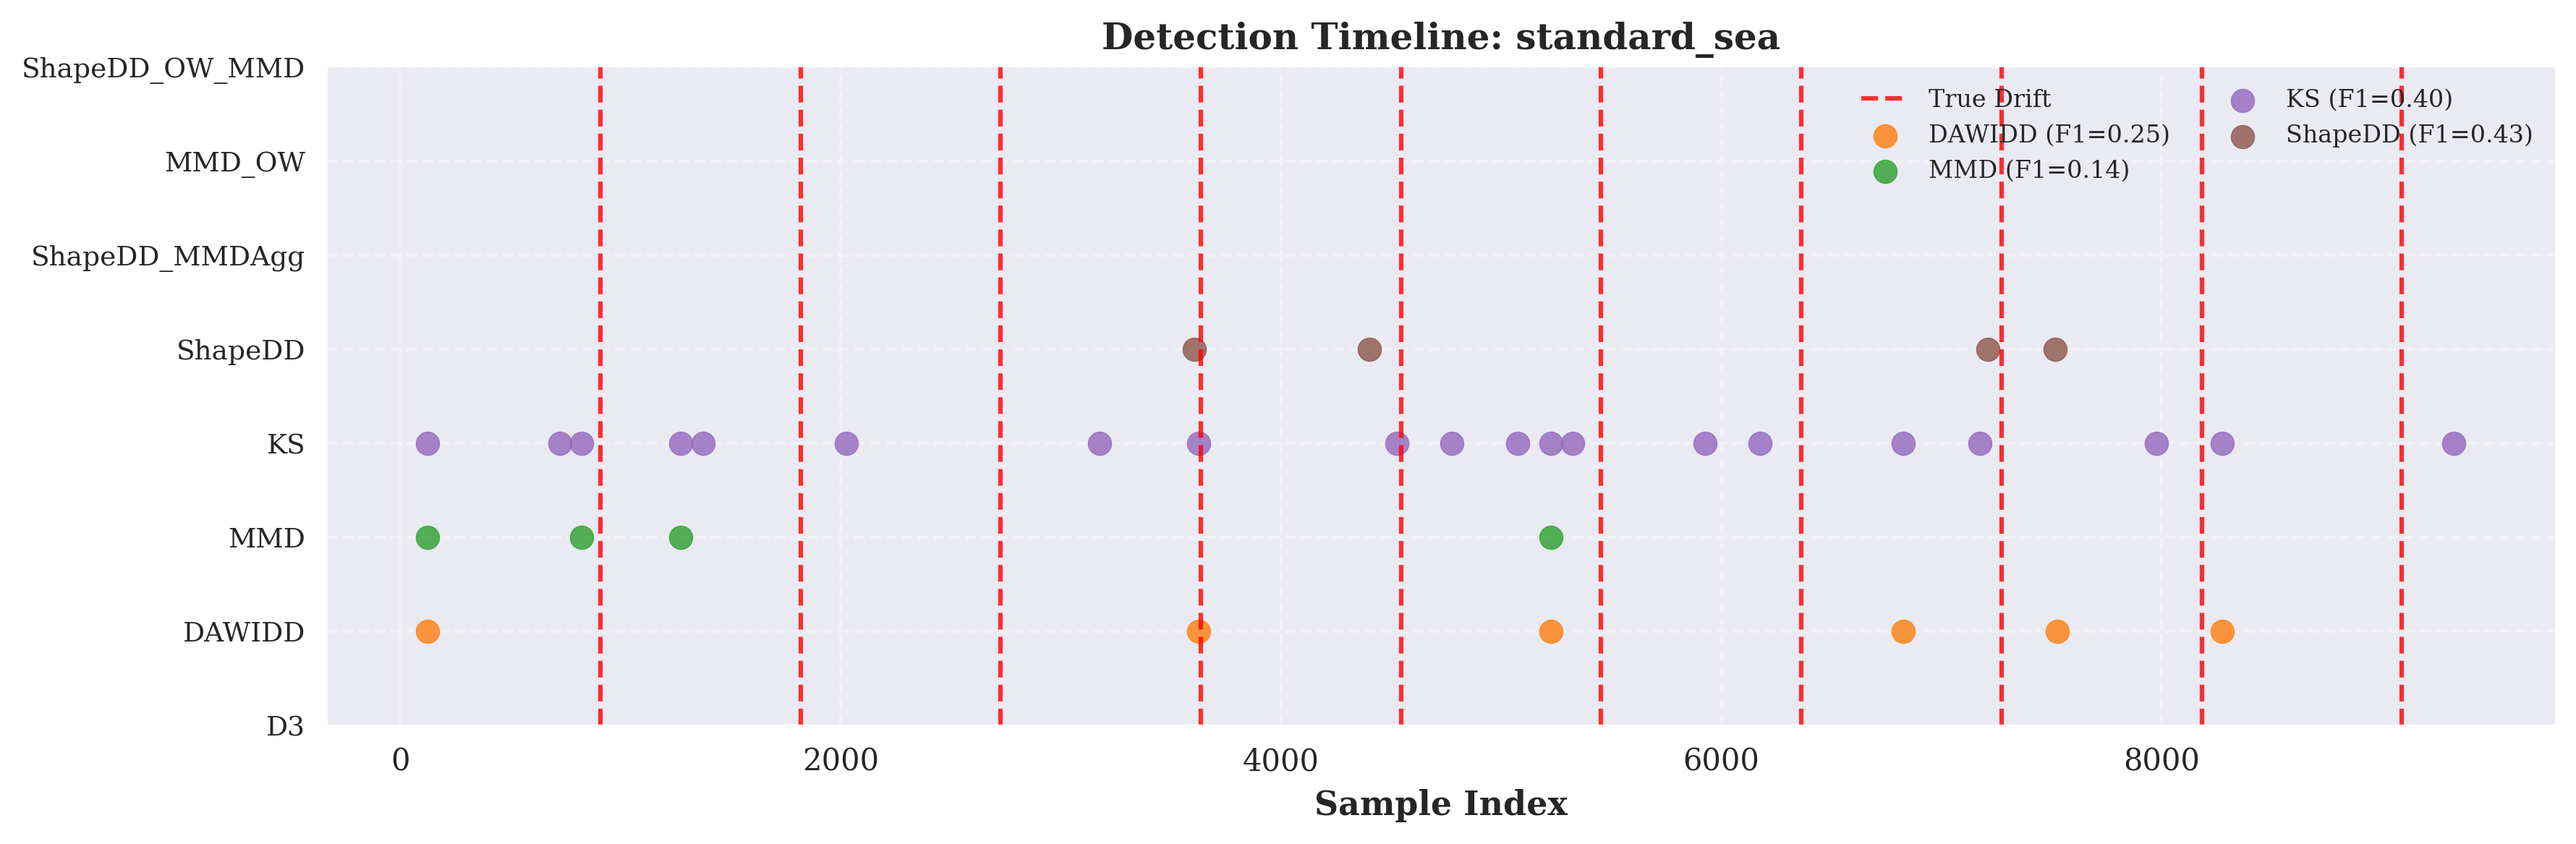
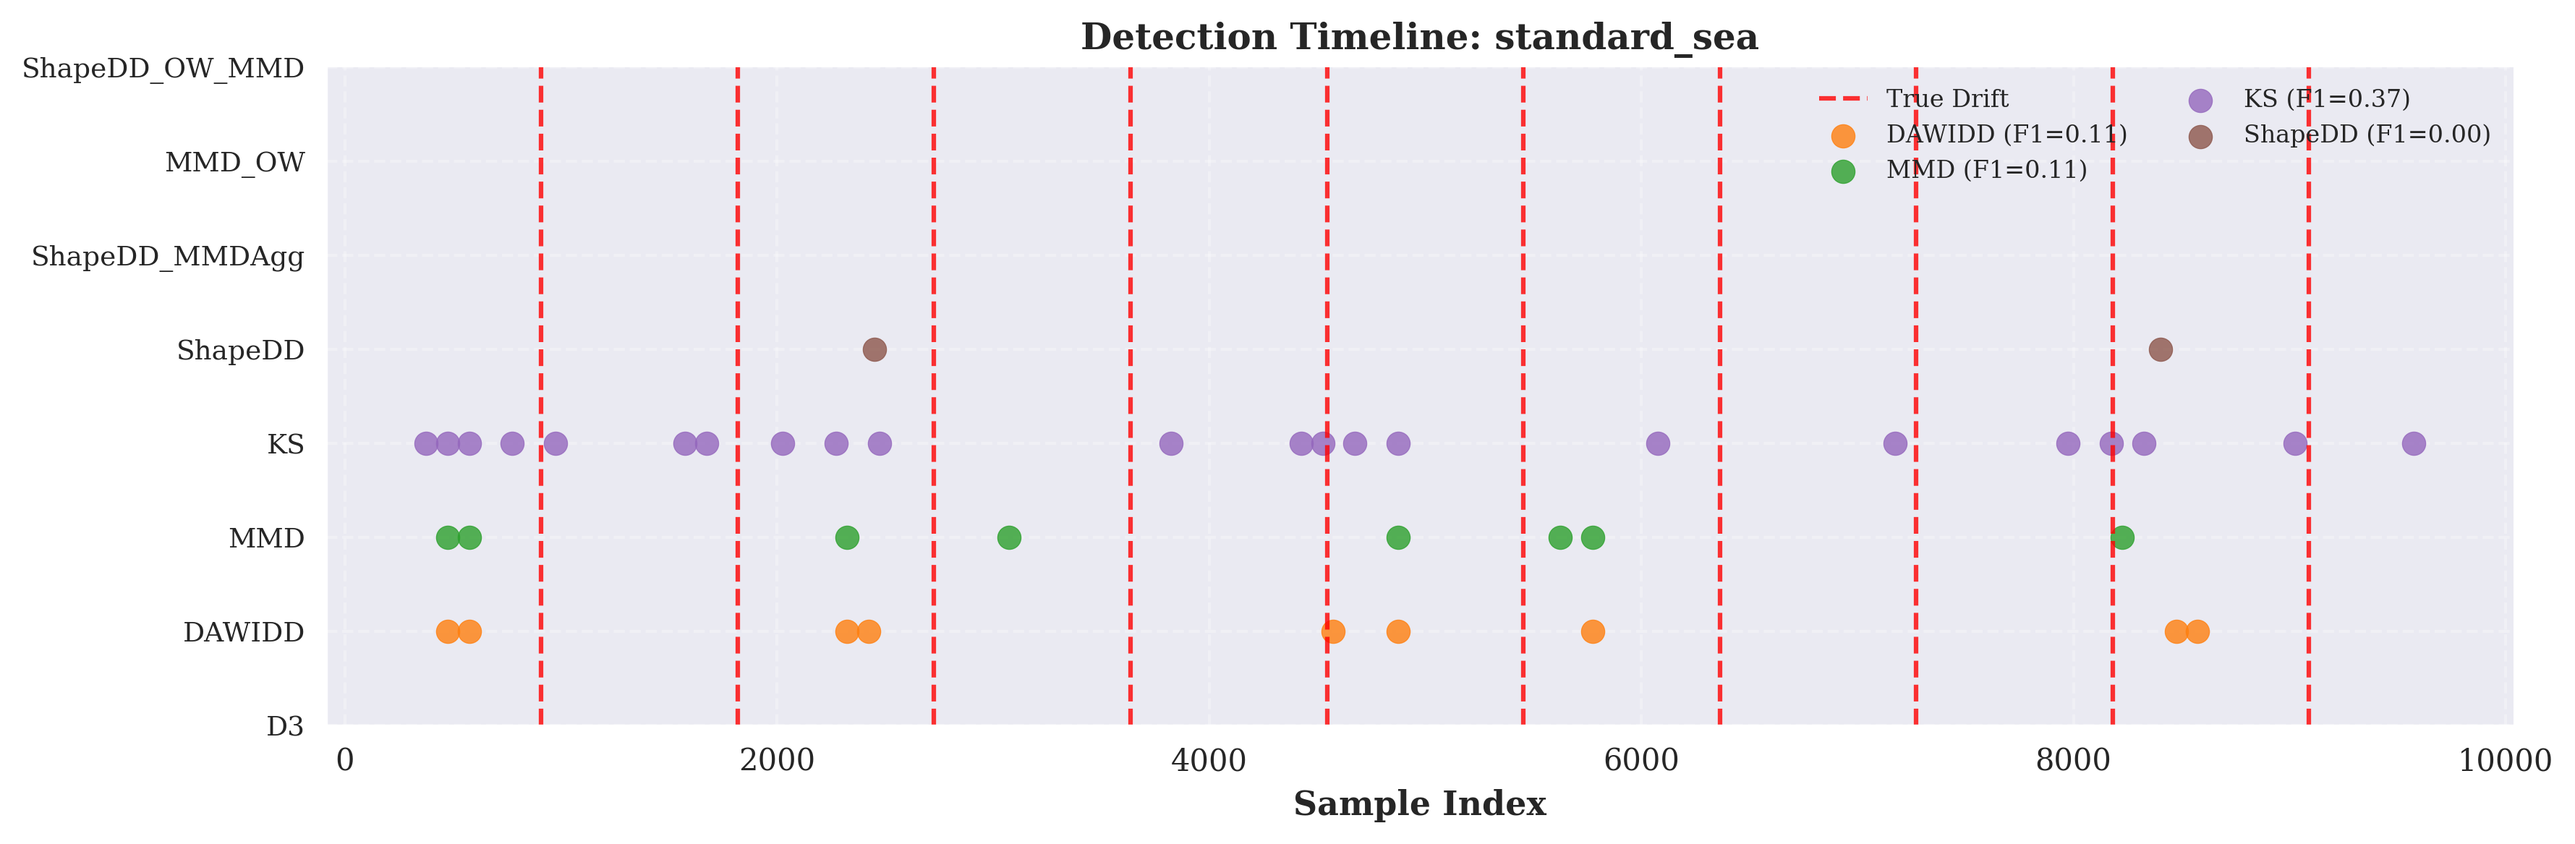
Refine report

diff --git a/experiments/drift_detection_benchmark/publication_figures/table_II_f1_by_dataset.tex b/experiments/drift_detection_benchmark/publication_figures/table_II_f1_by_dataset.tex
@@ -6,14 +6,14 @@
 Dataset & Rank & electricity_sorted & hyperplane & led_abrupt & rbf_slow & rbfblips & sea_gradual & stagger & standard_sea & Mean \\
 Method &  &  &  &  &  &  &  &  &  &  \\
 \midrule
-ShapeDD & 1 & \textbf{0.244} & 0.250 & 0.286 & \textbf{0.444} & 0.455 & 0.444 & 0.909 & \textbf{0.429} & \textbf{0.433} \\
-DAWIDD & 2 & 0.143 & 0.286 & 0.222 & 0.421 & \textbf{0.476} & \textbf{0.500} & 0.690 & 0.250 & 0.374 \\
-MMD & 3 & 0.156 & \textbf{0.400} & \textbf{0.353} & 0.300 & 0.455 & 0.375 & 0.667 & 0.143 & 0.356 \\
-KS & 4 & 0.096 & 0.327 & 0.000 & 0.295 & 0.290 & 0.389 & 0.417 & 0.400 & 0.277 \\
-ShapeDD_OW_MMD & 5 & 0.182 & 0.000 & 0.182 & 0.000 & 0.000 & 0.000 & \textbf{1.000} & 0.000 & 0.170 \\
-MMD_OW & 6 & 0.240 & 0.000 & 0.000 & 0.000 & 0.000 & 0.000 & \textbf{1.000} & 0.000 & 0.155 \\
-ShapeDD_MMDAgg & 7 & 0.000 & 0.000 & 0.000 & 0.000 & 0.182 & 0.000 & \textbf{1.000} & 0.000 & 0.148 \\
-D3 & 8 & 0.118 & 0.000 & 0.000 & 0.000 & 0.000 & 0.000 & \textbf{1.000} & 0.000 & 0.140 \\
+ShapeDD & 1 & 0.238 & \textbf{0.375} & \textbf{0.375} & 0.111 & \textbf{0.348} & 0.300 & 0.690 & 0.000 & \textbf{0.305} \\
+KS & 2 & 0.096 & 0.321 & 0.286 & 0.327 & 0.328 & 0.279 & 0.377 & \textbf{0.375} & 0.299 \\
+MMD & 3 & 0.159 & 0.000 & 0.250 & \textbf{0.381} & 0.300 & \textbf{0.387} & 0.645 & 0.111 & 0.279 \\
+DAWIDD & 4 & 0.141 & 0.000 & 0.235 & 0.261 & 0.273 & \textbf{0.387} & 0.556 & 0.105 & 0.245 \\
+ShapeDD_MMDAgg & 5 & 0.000 & 0.000 & 0.000 & 0.000 & 0.333 & 0.000 & \textbf{1.000} & 0.000 & 0.167 \\
+MMD_OW & 6 & \textbf{0.240} & 0.000 & 0.000 & 0.000 & 0.000 & 0.000 & \textbf{1.000} & 0.000 & 0.155 \\
+ShapeDD_OW_MMD & 7 & 0.182 & 0.000 & 0.000 & 0.000 & 0.000 & 0.000 & \textbf{1.000} & 0.000 & 0.148 \\
+D3 & 8 & 0.000 & 0.000 & 0.000 & 0.000 & 0.000 & 0.000 & \textbf{1.000} & 0.000 & 0.125 \\
 \bottomrule
 \end{tabular}
 \end{table}

diff --git a/experiments/drift_detection_benchmark/publication_figures/table_I_comprehensive_performance.tex b/experiments/drift_detection_benchmark/publication_figures/table_I_comprehensive_performance.tex
@@ -5,14 +5,14 @@
 \toprule
 Rank & Method & F1 ($\mu \pm \sigma$) & Precision & Recall & MTTD & TP & FP & FN \\
 \midrule
-1 & ShapeDD & $\mathbf{0.433 \pm 0.213}$ & \textbf{0.496} & 0.500 & 63.000 & 35 & 55 & 40 \\
-2 & DAWIDD & $0.373 \pm 0.180$ & 0.369 & 0.537 & 67.000 & 38 & 106 & 37 \\
-3 & MMD & $0.356 \pm 0.168$ & 0.357 & 0.512 & 58.000 & 36 & 103 & 39 \\
-4 & KS & $0.277 \pm 0.151$ & 0.179 & \textbf{0.762} & 45.000 & 56 & 283 & 19 \\
-5 & ShapeDD_OW_MMD & $0.171 \pm 0.345$ & 0.265 & 0.188 & 73.000 & 13 & 15 & 62 \\
+1 & ShapeDD & $\mathbf{0.305 \pm 0.205}$ & \textbf{0.299} & 0.425 & 52.000 & 29 & 72 & 46 \\
+2 & KS & $0.299 \pm 0.089$ & 0.229 & \textbf{0.775} & 61.000 & 57 & 286 & 18 \\
+3 & MMD & $0.279 \pm 0.199$ & 0.246 & 0.450 & 62.000 & 31 & 111 & 44 \\
+4 & DAWIDD & $0.245 \pm 0.172$ & 0.203 & 0.438 & 41.000 & 30 & 128 & 45 \\
+5 & ShapeDD_MMDAgg & $0.167 \pm 0.356$ & 0.250 & 0.150 & \textbf{2.000} & 12 & 2 & 63 \\
 6 & MMD_OW & $0.155 \pm 0.352$ & 0.144 & 0.200 & 43.000 & 13 & 18 & 62 \\
-7 & ShapeDD_MMDAgg & $0.148 \pm 0.350$ & 0.250 & 0.138 & \textbf{6.000} & 11 & 2 & 64 \\
-8 & D3 & $0.140 \pm 0.350$ & 0.135 & 0.150 & 27.000 & 11 & 11 & 64 \\
+7 & ShapeDD_OW_MMD & $0.148 \pm 0.350$ & 0.140 & 0.175 & 44.000 & 12 & 15 & 63 \\
+8 & D3 & $0.125 \pm 0.354$ & 0.125 & 0.125 & 13.000 & 10 & 12 & 65 \\
 \bottomrule
 \end{tabular}
 \end{table}

diff --git a/experiments/drift_detection_benchmark/publication_figures/table_III_runtime_stats.tex b/experiments/drift_detection_benchmark/publication_figures/table_III_runtime_stats.tex
@@ -6,14 +6,14 @@
  & Mean (s) & Std (s) & Min (s) & Max (s) & Throughput (samples/s) \\
 Method &  &  &  &  &  \\
 \midrule
-MMD_OW & 0.218900 & 0.017800 & 0.186600 & 0.244200 & 45683 \\
-KS & 0.350600 & 0.115900 & 0.190200 & 0.497400 & 28523 \\
-D3 & 0.372400 & 0.033300 & 0.328700 & 0.438900 & 26853 \\
-MMD & 1.176300 & 0.375200 & 0.725900 & 1.834600 & 8501 \\
-ShapeDD_OW_MMD & 2.927200 & 0.517500 & 2.158000 & 3.589000 & 3416 \\
-DAWIDD & 2.980700 & 0.928700 & 2.440900 & 5.420300 & 3355 \\
-ShapeDD & 4.166000 & 1.525900 & 2.311900 & 7.216600 & 2400 \\
-ShapeDD_MMDAgg & 7.189900 & 1.131500 & 4.697800 & 8.057600 & 1391 \\
+MMD_OW & 0.215100 & 0.018600 & 0.179700 & 0.243200 & 46490 \\
+KS & 0.320500 & 0.106800 & 0.167200 & 0.448400 & 31201 \\
+D3 & 0.358100 & 0.026300 & 0.323200 & 0.409500 & 27925 \\
+MMD & 0.740900 & 0.281100 & 0.484500 & 1.410400 & 13497 \\
+ShapeDD_OW_MMD & 2.164200 & 0.293800 & 1.628600 & 2.662900 & 4621 \\
+DAWIDD & 2.549700 & 0.819300 & 2.157500 & 4.727000 & 3922 \\
+ShapeDD & 2.560900 & 0.360900 & 2.117200 & 3.297800 & 3905 \\
+ShapeDD_MMDAgg & 5.478100 & 0.403400 & 4.762200 & 6.101800 & 1825 \\
 \bottomrule
 \end{tabular}
 \end{table}

diff --git a/experiments/drift_detection_benchmark/analysis/statistics.py b/experiments/drift_detection_benchmark/analysis/statistics.py
@@ -198,14 +198,14 @@ def run_statistical_analysis(all_results, n_runs):
             print(f"p-value: {p_value:.5f}")
 
             if p_value < 0.05:
-                print(f"\n✅ SIGNIFICANT difference detected among methods (p < 0.05)")
+                print(f"\nSIGNIFICANT difference detected among methods (p < 0.05)")
                 print(f"   Interpretation: At least one method performs significantly different from others.")
             else:
-                print(f"\n⚠  No significant difference detected (p ≥ 0.05)")
+                print(f"\nNo significant difference detected (p ≥ 0.05)")
 
             friedman_result = {'statistic': stat, 'p_value': p_value}
         else:
-            print(f"⚠  Cannot perform Friedman test: methods have different sample sizes")
+            print(f"Cannot perform Friedman test: methods have different sample sizes")
             print(f"   Sample sizes: {dict(zip(all_methods, lengths))}")
 
     # ========================================================================

diff --git a/experiments/drift_detection_benchmark/config.py b/experiments/drift_detection_benchmark/config.py
@@ -37,7 +37,7 @@ RANDOM_SEED = 42  # Fixed seed for reproducibility (deprecated - use RANDOM_SEED
 # ============================================================================
 # Statistical validation requires multiple runs with different random seeds
 # Benchmark standard: 30-500 runs (we use 30 for 80% statistical power)
-N_RUNS = 30  # Number of independent runs (minimum for statistical validity)
+N_RUNS = 1  # Number of independent runs (minimum for statistical validity)
 RANDOM_SEEDS = [42 + i * 137 for i in range(N_RUNS)]  # Prime spacing avoids correlation
 
 # ============================================================================

diff --git a/experiments/drift_detection_benchmark/publication_figures/table_IV_statistical_significance.tex b/experiments/drift_detection_benchmark/publication_figures/table_IV_statistical_significance.tex
@@ -1,0 +1,21 @@
+\begin{table}[htbp]
+\caption{Method rankings and statistical significance (Friedman-Nemenyi test, $\alpha$=0.05).
+Methods connected by bars in the CD diagram are not significantly different.}
+\label{tab:statistical_significance}
+\begin{tabular}{lcc}
+\toprule
+Method & Average Rank & Rank \\
+\midrule
+ShapeDD & 3.056 & 1 \\
+MMD & 3.500 & 2 \\
+KS & 3.611 & 3 \\
+DAWIDD & 4.278 & 4 \\
+MMD_OW & 5.111 & 5 \\
+ShapeDD_MMDAgg & 5.278 & 6 \\
+ShapeDD_OW_MMD & 5.333 & 7 \\
+D3 & 5.833 & 8 \\
+\midrule
+\multicolumn{3}{l}{Critical Difference (CD) = 3.500} \\
+\bottomrule
+\end{tabular}
+\end{table}
